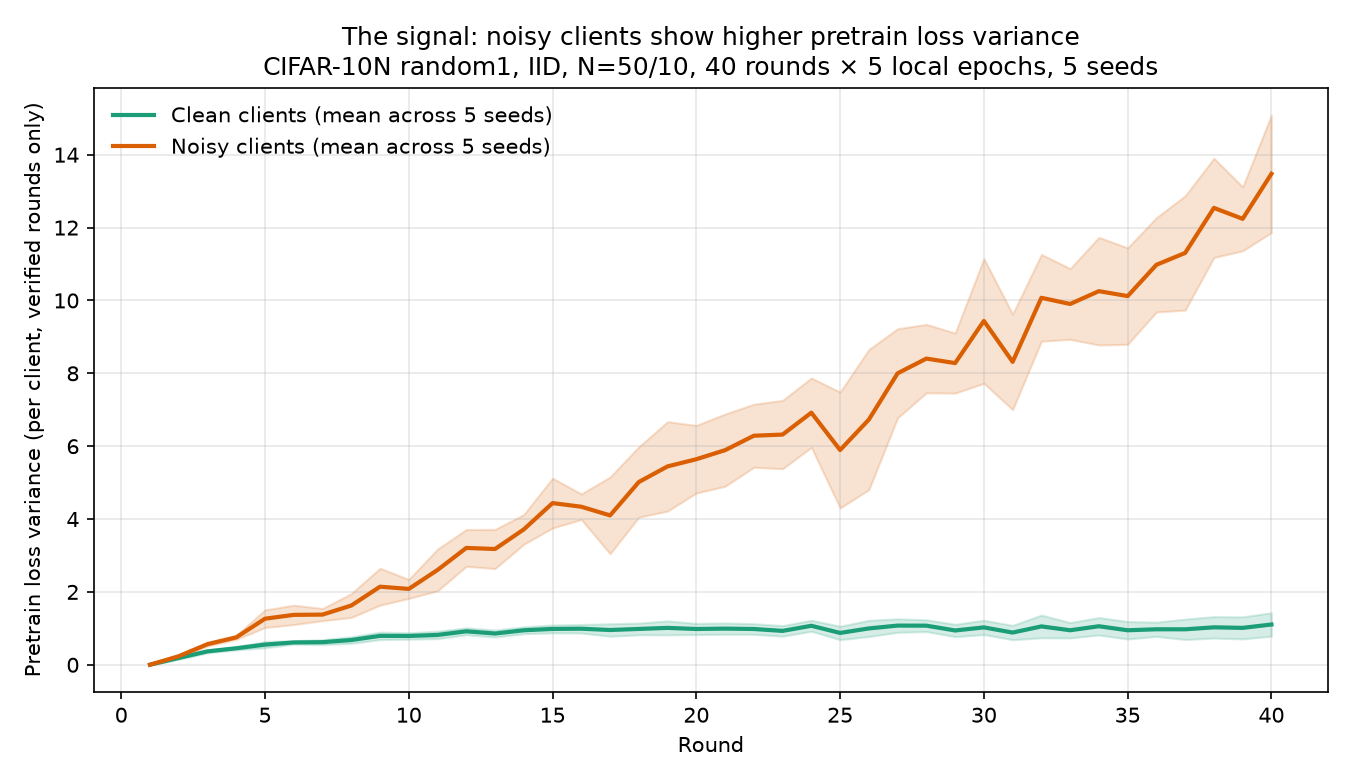
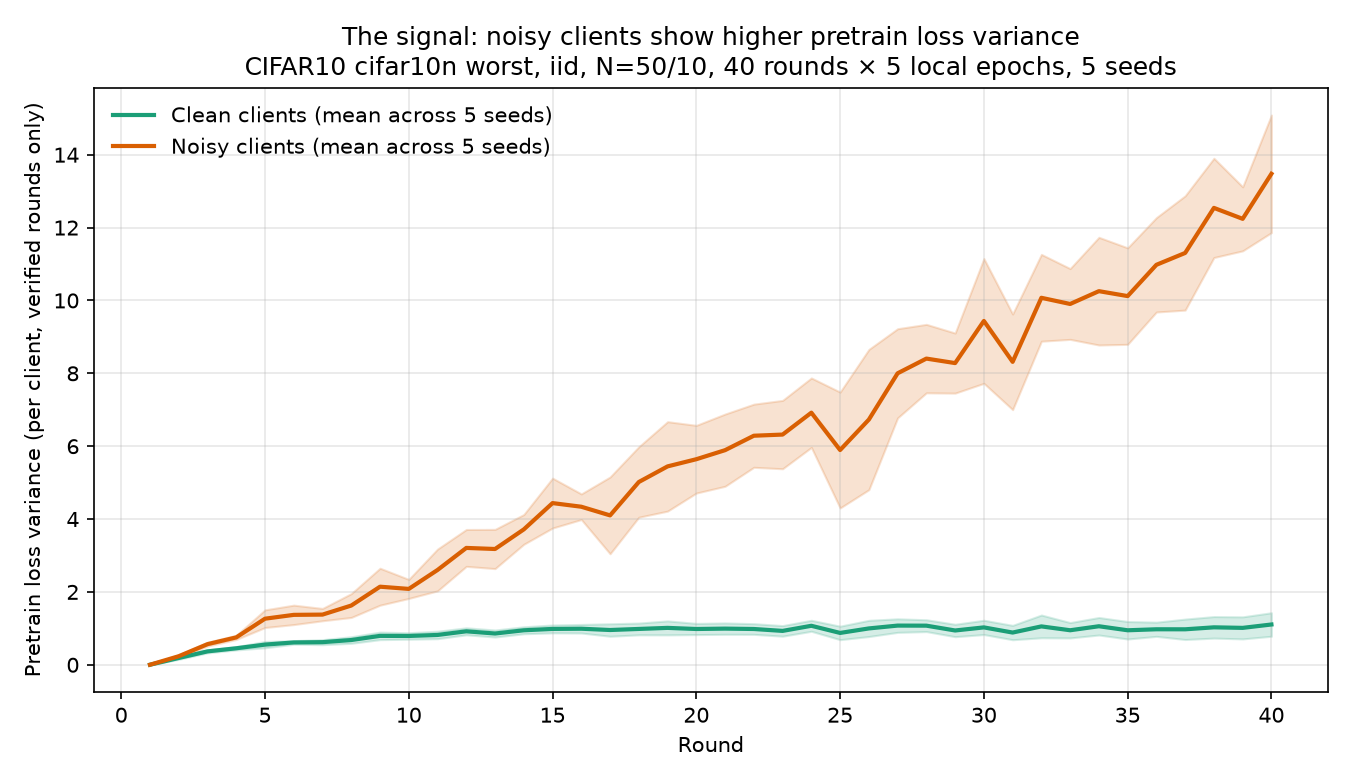
Fix plot title to read run config instead of hardcoded 'CIFAR-10N random1'
The signal-plot title was hardcoded, so pointing the script at the worst
run produced a plot that correctly showed the worst-run data (noisy
variance climbing to ~14 by r=40) but labelled it as random1. Derive
the run tag from the first experiment_summary.json under ROOT instead;
seed count comes from --seeds. Regenerated plot 01 for the worst-twagg
run now reads 'CIFAR10 cifar10n worst, iid, N=50/10, 40 rounds × 5
local epochs, 5 seeds'.

Claude-Session: https://claude.ai/code/session_01BEDiEeFVbT3sCRERAkkuVs

Changed region(s): [[0.1867, 0.0615, 0.8711, 0.1231]]

diff --git a/experiments/analysis/oracle/plot_integration_v1_test2.py b/experiments/analysis/oracle/plot_integration_v1_test2.py
@@ -47,6 +47,29 @@ def _discover_arms(root: Path):
     return arms
 
 
+def _describe_run(root: Path) -> str:
+    """Derive a short run tag ('CIFAR-10N worst, IID, 40r × 5ep, N=50/10') from
+    the first available experiment_summary.json so plot titles do not lie
+    when the script is pointed at a run other than the hardcoded one."""
+    try:
+        summary = next(root.rglob("experiment_summary.json"))
+    except StopIteration:
+        return str(root.name)
+    s = json.loads(summary.read_text())
+    cfg = s.get("experiment_config", {})
+    ds = cfg.get("dataset", "cifar10")
+    nt = cfg.get("label_noise_type", "none")
+    extra = (f" {cfg.get('cifar10n_label_set', '')}" if nt == "cifar10n" else "")
+    split = cfg.get("data_split", "iid")
+    alpha = f" α={cfg.get('data_alpha')}" if split == "dirichlet" else ""
+    rounds = cfg.get("num_rounds")
+    ep = cfg.get("client_epochs")
+    N = cfg.get("num_clients")
+    C = cfg.get("clients_per_round")
+    return (f"{ds.upper()} {nt}{extra}, {split}{alpha}, "
+            f"N={N}/{C}, {rounds} rounds × {ep} local epochs")
+
+
 parser = argparse.ArgumentParser(description=__doc__)
 parser.add_argument("root", nargs="?", type=Path,
                     default=Path(
@@ -67,7 +90,10 @@ OUT = ROOT / "plots"
 OUT.mkdir(parents=True, exist_ok=True)
 ARMS = _discover_arms(ROOT)
 SEEDS = args.seeds
+RUN_TAG = _describe_run(ROOT)
+SEED_TAG = f"{len(SEEDS)} seed" + ("s" if len(SEEDS) > 1 else "")
 print(f"root = {ROOT}")
+print(f"run_tag = {RUN_TAG}")
 print(f"arms = { {k: v[0] for k, v in ARMS.items()} }")
 print(f"seeds = {SEEDS}")
 
@@ -106,16 +132,16 @@ noisy_mean = [statistics.mean(noisy_by_round[r]) for r in rounds]
 noisy_std = [statistics.stdev(noisy_by_round[r]) if len(noisy_by_round[r]) > 1 else 0 for r in rounds]
 
 fig, ax = plt.subplots(figsize=(9, 5.2))
-ax.plot(rounds, clean_mean, color="#1b9e77", lw=2.0, label="Clean clients (mean across 5 seeds)")
+ax.plot(rounds, clean_mean, color="#1b9e77", lw=2.0, label=f"Clean clients (mean across {SEED_TAG})")
 ax.fill_between(rounds, [m - s for m, s in zip(clean_mean, clean_std)],
                 [m + s for m, s in zip(clean_mean, clean_std)], color="#1b9e77", alpha=0.18)
-ax.plot(rounds, noisy_mean, color="#d95f02", lw=2.0, label="Noisy clients (mean across 5 seeds)")
+ax.plot(rounds, noisy_mean, color="#d95f02", lw=2.0, label=f"Noisy clients (mean across {SEED_TAG})")
 ax.fill_between(rounds, [m - s for m, s in zip(noisy_mean, noisy_std)],
                 [m + s for m, s in zip(noisy_mean, noisy_std)], color="#d95f02", alpha=0.18)
 ax.set_xlabel("Round")
 ax.set_ylabel("Pretrain loss variance (per client, verified rounds only)")
 ax.set_title("The signal: noisy clients show higher pretrain loss variance\n"
-             "CIFAR-10N random1, IID, N=50/10, 40 rounds × 5 local epochs, 5 seeds")
+             f"{RUN_TAG}, {SEED_TAG}")
 ax.legend(loc="upper left", frameon=False)
 ax.grid(True, alpha=0.3)
 fig.tight_layout()
